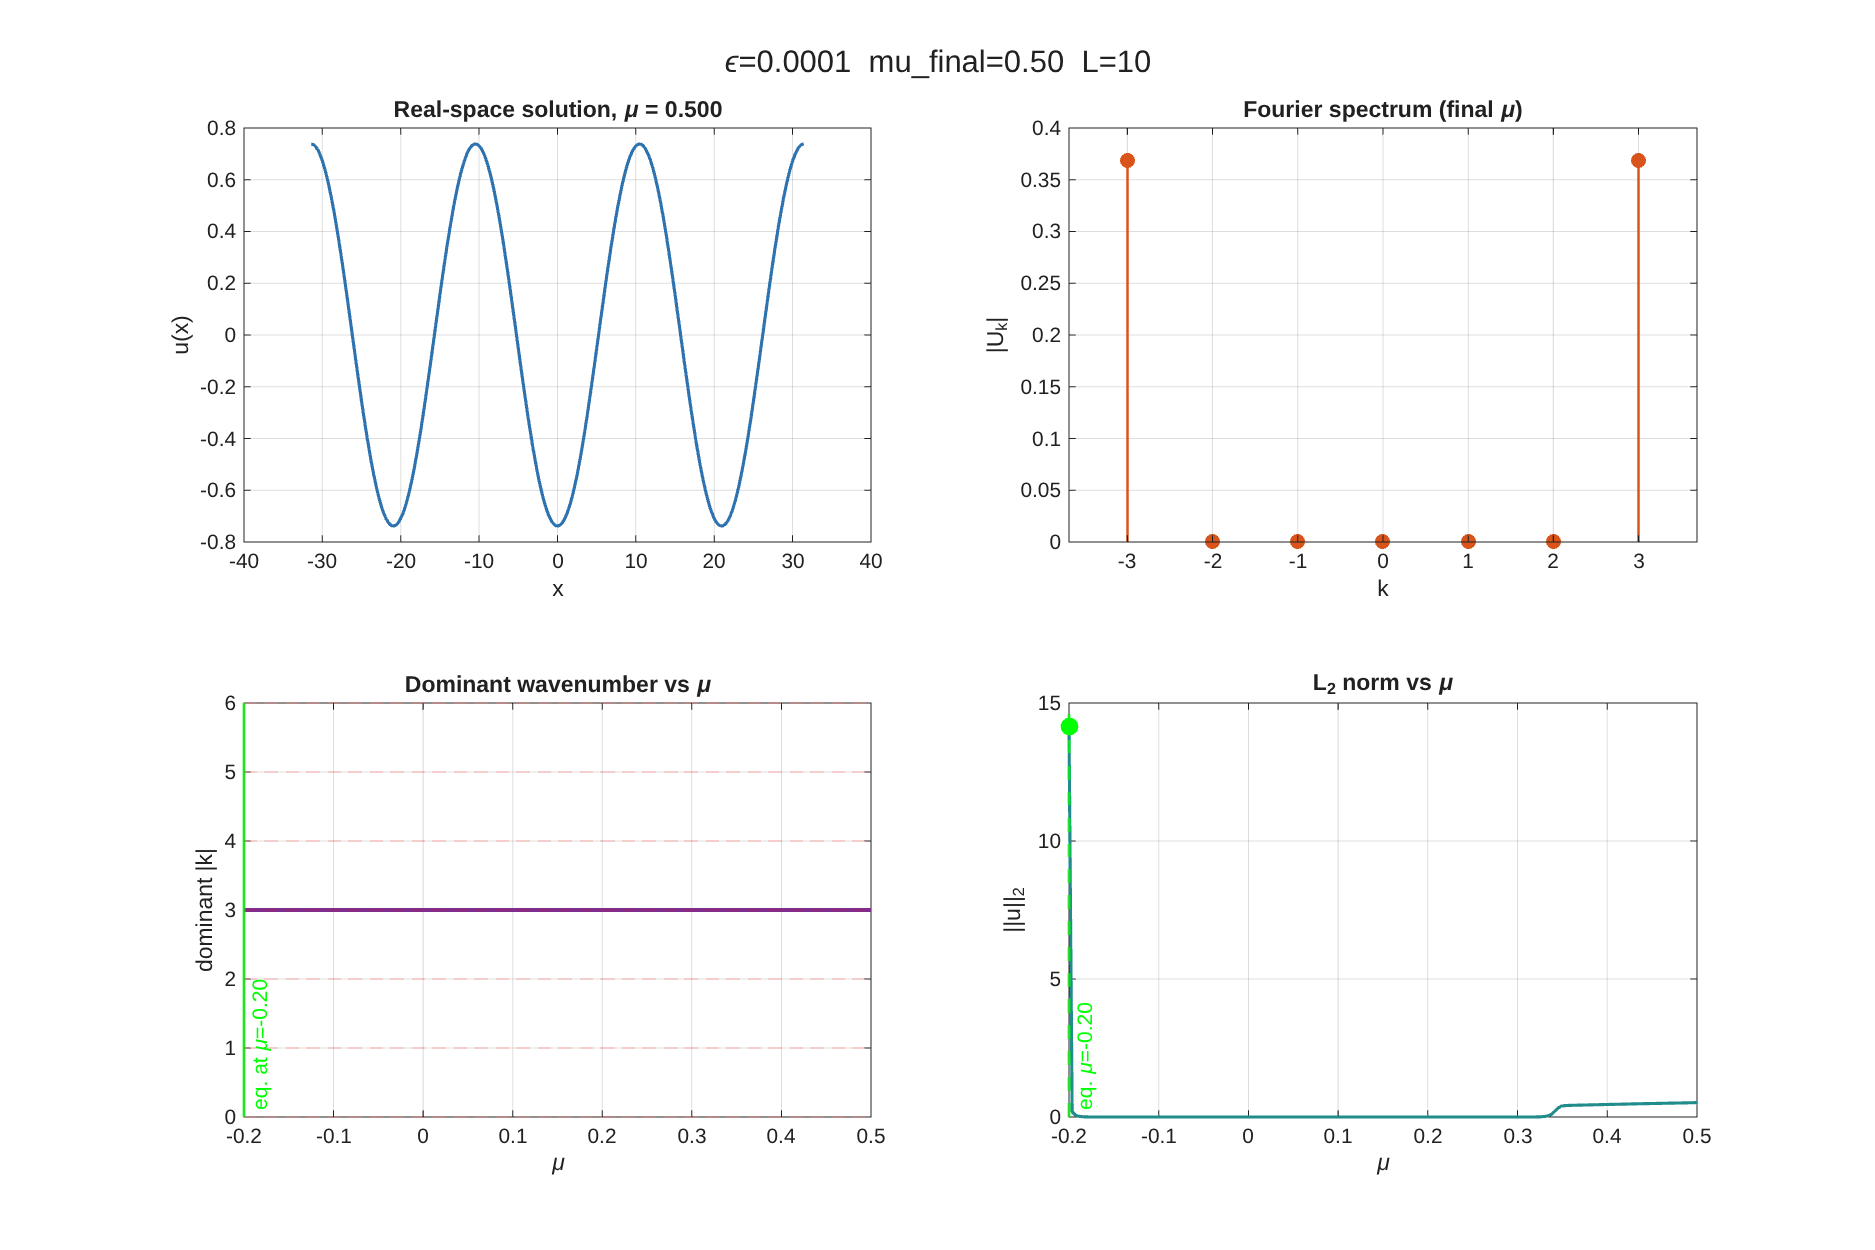
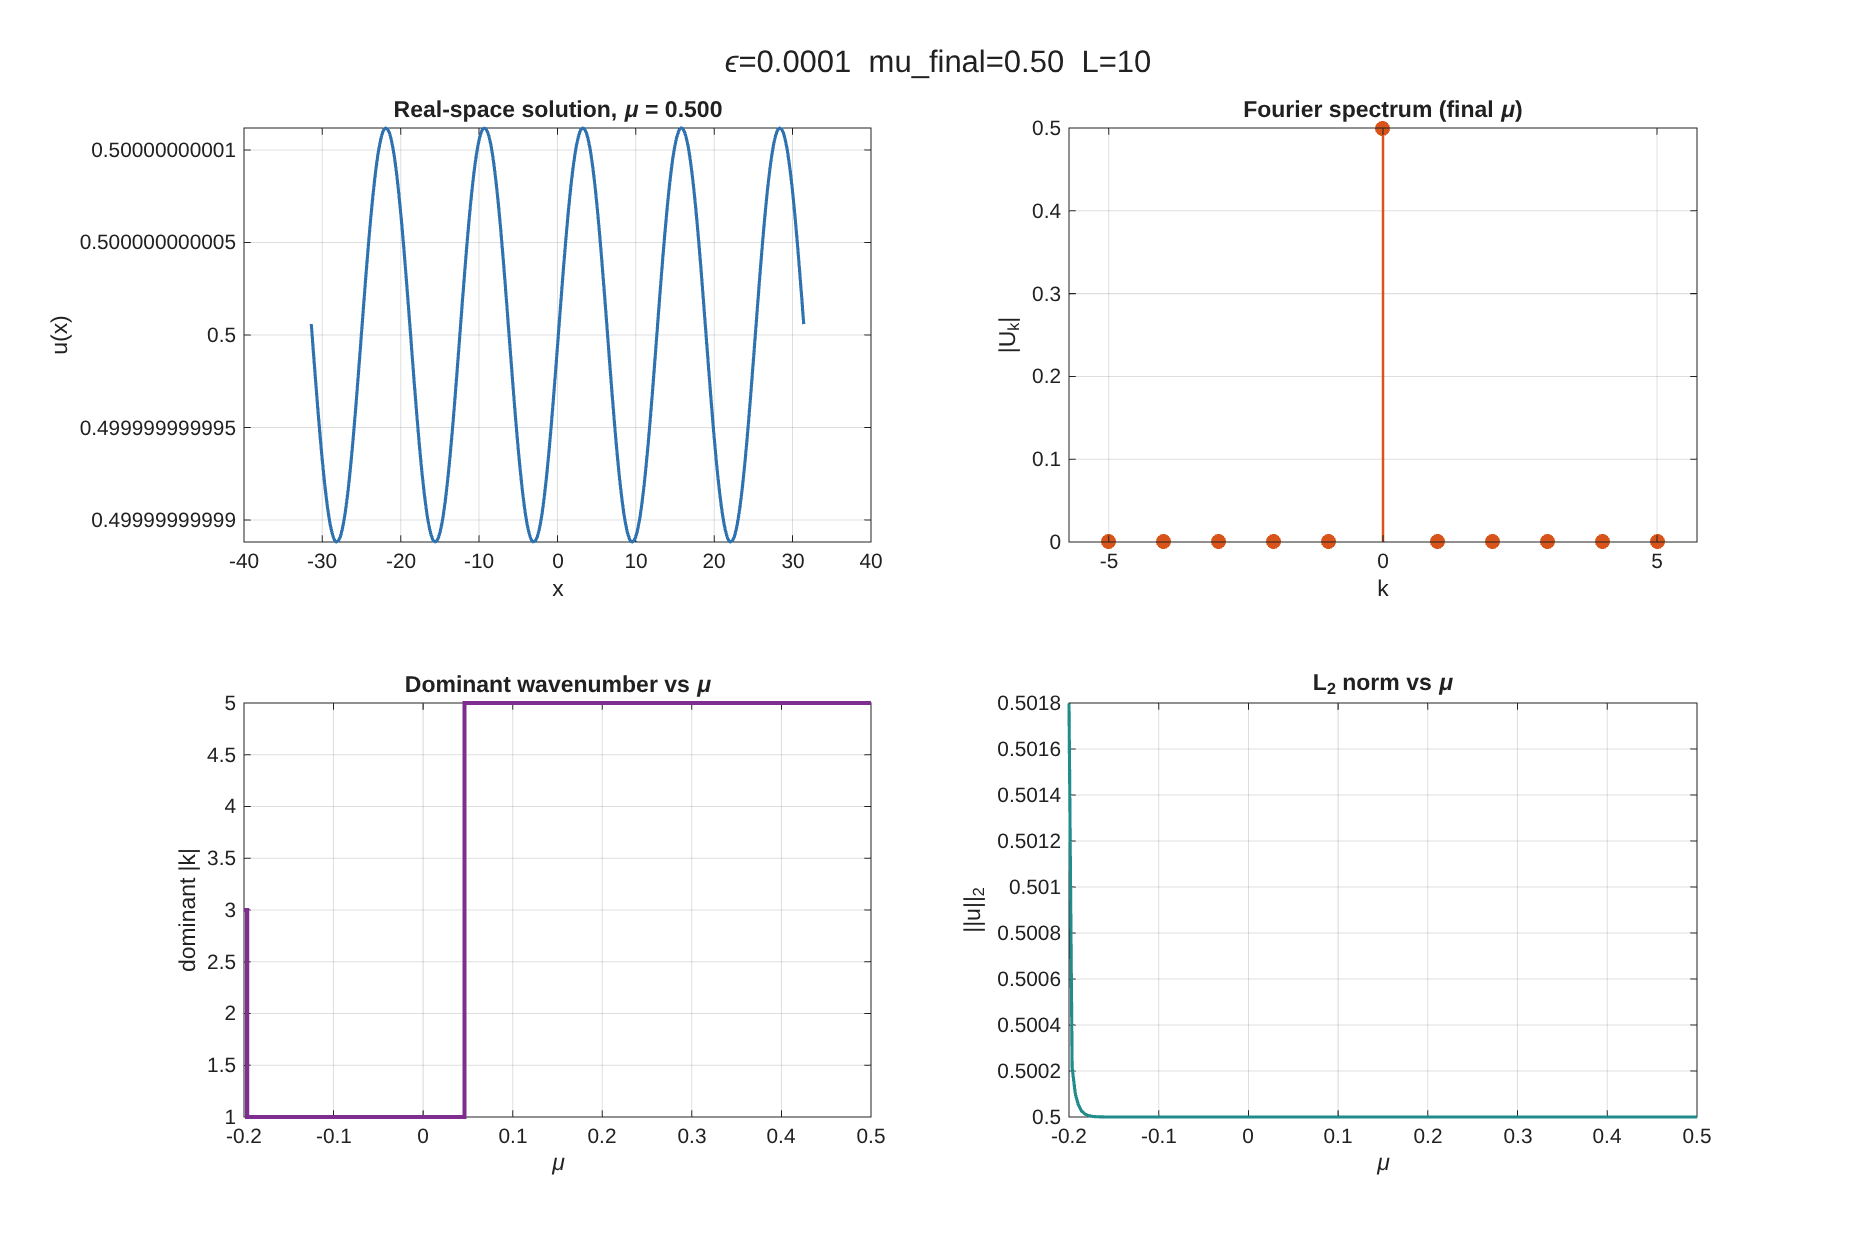
path independent startup

diff --git a/Cahn_Hilliard/CH1D/analysis/galerkin_proj.m b/Cahn_Hilliard/CH1D/analysis/galerkin_proj.m
@@ -3,7 +3,7 @@ clc; clear; close all;
 % ------------------------------------------------------------------------------------------
 % ------------------------------------------------------------------------------------------
 
-%% Description and configuration
+%% Description
 % Galerkin projection of 1D Cahn-Hilliard
 %
 % u_t = -d_xx(d_xx u + mu(t)u - u^3)
@@ -37,6 +37,7 @@ Lx = L*pi;
 Nframes        = 200;                       % number of evenly-spaced mu-frames
 tspan          = linspace(t0,T,Nframes);    % uniform in t => uniform in mu since mu=eps*t
 mu_vec_target  = epsilon*tspan;             % the mu-axis we evolve over
+mu0            = epsilon*t0;
 
 eq_window      = 10;                        % # consecutive frames the dominant mode must hold to call it "equilibrium"
 
@@ -68,7 +69,6 @@ end
 
 print_galerkin_odes(K, C, L, m);
 
-%% Initial condition
 %% Initial condition
 rng(1)
 
@@ -125,11 +125,11 @@ end
 
 mu_select = find_selection_time(kdom_hist, mu_vec, eq_window);
 
-if isnan(mu_select)
-    fprintf('Equilibrium not detected within simulation window.\n');
-else
-    fprintf('Equilibrium (mode selection) first reached at mu = %.4f\n', mu_select);
-end
+% if isnan(mu_select)
+%     fprintf('Equilibrium not detected within simulation window.\n');
+% else
+%     fprintf('Equilibrium (mode selection) first reached at mu = %.4f\n', mu_select);
+% end
 
 k_ref = 0:6;     % integer Galerkin modes |k| = 0..3 matter most, but keep a few extra for context
 
@@ -175,13 +175,13 @@ for j = 1:length(t)
     subplot(2,2,3)
     stairs(mu_vec(1:j), kdom_hist(1:j), 'LineWidth', 2, 'Color', [0.49 0.18 0.56])
     hold on
-    for kj = k_ref
-        yline(kj, '--r', 'Alpha', 0.3)
-    end
-    if ~isnan(mu_select) && mu_now >= mu_select
-        xline(mu_select, '-g', 'LineWidth', 1.5, ...
-            'Label', sprintf('eq. at \\mu=%.2f', mu_select), 'LabelVerticalAlignment','bottom')
-    end
+    % for kj = k_ref
+    %     yline(kj, '--r', 'Alpha', 0.3)
+    % end
+    % if ~isnan(mu_select) && mu_now >= mu_select
+    %     xline(mu_select, '-g', 'LineWidth', 1.5, ...
+    %         'Label', sprintf('eq. at \\mu=%.2f', mu_select), 'LabelVerticalAlignment','bottom')
+    % end
     hold off
     xlabel('\mu'); ylabel('dominant |k|')
     xlim([mu_vec(1) mu_vec(end)])
@@ -193,14 +193,14 @@ for j = 1:length(t)
     subplot(2,2,4)
     plot(mu_vec(1:j), L2_hist(1:j), 'LineWidth', 1.5, 'Color', [0.13 0.55 0.55])
     hold on
-    if ~isnan(mu_select) && mu_now >= mu_select
-        xline(mu_select, '--g', 'LineWidth', 1.5, ...
-            'Label', sprintf('eq. \\mu=%.2f', mu_select), 'LabelVerticalAlignment','bottom')
-        eq_idx = find(mu_vec(1:j) >= mu_select, 1);
-        if ~isempty(eq_idx)
-            plot(mu_vec(eq_idx), L2_hist(eq_idx), 'og', 'MarkerSize', 8, 'MarkerFaceColor','g')
-        end
-    end
+    % if ~isnan(mu_select) && mu_now >= mu_select
+    %     xline(mu_select, '--g', 'LineWidth', 1.5, ...
+    %         'Label', sprintf('eq. \\mu=%.2f', mu_select), 'LabelVerticalAlignment','bottom')
+    %     eq_idx = find(mu_vec(1:j) >= mu_select, 1);
+    %     if ~isempty(eq_idx)
+    %         plot(mu_vec(eq_idx), L2_hist(eq_idx), 'og', 'MarkerSize', 8, 'MarkerFaceColor','g')
+    %     end
+    % end
     hold off
     xlabel('\mu'); ylabel('||u||_2')
     xlim([mu_vec(1) mu_vec(end)])
@@ -208,8 +208,8 @@ for j = 1:length(t)
     title('L_2 norm vs \mu')
     grid on
     
-    sgtitle(sprintf('Galerkin Cahn-Hilliard    \\epsilon=%.4f    \\mu(t)=\\epsilon t    \\mu = %.3f / %.3f', ...
-                     epsilon, mu_now, mu_vec(end))) 
+    sgtitle(sprintf('Galerkin Cahn-Hilliard    \\epsilon=%.4f    \\mu(t)=\\epsilon t    \\mu = %.3f / %.3f    m = %.3f', ...
+                     epsilon, mu_now, mu_vec(end), m)) 
     
     drawnow;
     frame = getframe(fig);
@@ -240,13 +240,13 @@ grid on
 subplot(2,2,3)
 stairs(mu_vec, kdom_hist, 'LineWidth', 2, 'Color', [0.49 0.18 0.56])
 hold on
-for kj = k_ref
-    yline(kj, '--r', 'Alpha', 0.3)
-end
-if ~isnan(mu_select)
-    xline(mu_select, '-g', 'LineWidth', 1.5, ...
-        'Label', sprintf('eq. at \\mu=%.2f', mu_select), 'LabelVerticalAlignment','bottom')
-end
+% for kj = k_ref
+%     yline(kj, '--r', 'Alpha', 0.3)
+% end
+% if ~isnan(mu_select)
+%     xline(mu_select, '-g', 'LineWidth', 1.5, ...
+%         'Label', sprintf('eq. at \\mu=%.2f', mu_select), 'LabelVerticalAlignment','bottom')
+% end
 hold off
 xlabel('\mu'); ylabel('dominant |k|')
 title('Dominant wavenumber vs \mu')
@@ -255,12 +255,12 @@ grid on
 subplot(2,2,4)
 plot(mu_vec, L2_hist, 'LineWidth', 1.5, 'Color', [0.13 0.55 0.55])
 hold on
-if ~isnan(mu_select)
-    xline(mu_select, '--g', 'LineWidth', 1.5, ...
-        'Label', sprintf('eq. \\mu=%.2f', mu_select), 'LabelVerticalAlignment','bottom')
-    eq_idx = find(mu_vec >= mu_select, 1);
-    plot(mu_vec(eq_idx), L2_hist(eq_idx), 'og', 'MarkerSize', 8, 'MarkerFaceColor','g')
-end
+% if ~isnan(mu_select)
+%     xline(mu_select, '--g', 'LineWidth', 1.5, ...
+%         'Label', sprintf('eq. \\mu=%.2f', mu_select), 'LabelVerticalAlignment','bottom')
+%     eq_idx = find(mu_vec >= mu_select, 1);
+%     plot(mu_vec(eq_idx), L2_hist(eq_idx), 'og', 'MarkerSize', 8, 'MarkerFaceColor','g')
+% end
 hold off
 xlabel('\mu'); ylabel('||u||_2')
 title('L_2 norm vs \mu')
@@ -396,14 +396,10 @@ end
 
 
 %% formatting
-
 function s = format_monomial(coeff, idxs)
     
-    % count how many zero modes appear
-    nzero = sum(idxs==0);
-    
-    % remove them
-    idxs = idxs(idxs~=0);
+    nzero = sum(idxs==0); % count how many zero modes appear
+    idxs = idxs(idxs~=0); % remove them
     
     % base numeric coefficient string (suppress "1" if m will be present)
     if coeff == 1 && nzero > 0
@@ -482,15 +478,33 @@ function rfun = r_k(k, L, epsilon, t0)
     rfun = @(t) (const_term(t).*img_term(t) + r_k_0^(-2)*IC_term(t)).^(-1/2);
 end
 
-function [MUS, KS] = critical_bifurcation(j, L, mass,mu0)
+function [MUS, KS] = critical_bifurcation_eig(j, L, mass, mu0)
     % Computes the j'th frequencies critical mu and associated eigenvalue
     KS = 2 * pi * j./ L;
     MUS = -mu0 + 2*(3 * mass^2 + KS.^2);    
 end
 
+function [MUS, KS] = critical_bifurcation(j, L, mass)
+    % Computes the j'th frequencies critical mu and associated eigenvalue
+    KS = 2 * pi * j./ L;
+    MUS = KS.^2 + 3*mass^2;    
+end
+
 %% Print Critical Bifurcations
 fprintf('========================================================\n');
-fprintf(' Theoretical Critical Bifurcations\n');
+fprintf(' Theoretical Critical Bifurcations (integrated eig)\n');
+fprintf('========================================================\n');
+for kk = 1:Nmodes
+    k_val = K(kk);
+    if k_val >= 0 % Only print for positive wave numbers
+        [mu_crit, ks_val] = critical_bifurcation_eig(k_val, L, m, mu0);
+        fprintf('Mode |k| = %2d : Critical mu = %.4f\n', k_val, mu_crit);
+    end
+end
+fprintf('\n');
+
+fprintf('========================================================\n');
+fprintf(' Theoretical Critical Bifurcations (eigenvalue)\n');
 fprintf('========================================================\n');
 for kk = 1:Nmodes
     k_val = K(kk);

diff --git a/Cahn_Hilliard/CH1D/analysis/galerkin_proj_bifurcations.m b/Cahn_Hilliard/CH1D/analysis/galerkin_proj_bifurcations.m
@@ -1,0 +1,178 @@
+clc; clear; close all;
+
+% ------------------------------------------------------------------------------------------
+% ------------------------------------------------------------------------------------------
+
+%% Description
+% Computes the stationary (\epsilon = 0) bifurcation structure of the 
+% 1D Cahn-Hilliard equation using Galerkin projection.
+
+% Fixed L, varying \mu.
+% Solves for equilibria using Amplitude Continuation to seamlessly trace
+% subcritical (backward-bending) branches.
+
+% ------------------------------------------------------------------------------------------
+% ------------------------------------------------------------------------------------------
+
+%% Parameters
+L = 10;
+K = -5:5;
+Nmodes = length(K);
+Kmax = max(K);
+index_of = @(k) find(K==k);
+
+% Amplitude stepping parameters
+A_steps = 100;
+A_max = 1.2;
+A_vec = linspace(0.01, A_max, A_steps);
+
+%% Build cubic interaction tensor
+C = zeros(Nmodes,Nmodes,Nmodes,Nmodes);
+for kk = 1:Nmodes
+    for mm = 1:Nmodes
+        for nn = 1:Nmodes
+            for pp = 1:Nmodes
+                if K(mm)+K(nn)+K(pp) == K(kk)
+                    C(kk,mm,nn,pp) = 1;
+                end
+            end
+        end
+    end
+end
+
+%% Run Continuation for two masses
+masses = [0, 0.5];
+titles = {'Unstable Regime (m = 0)', 'Transitional Regime (m = 0.5)'};
+
+fig1 = figure('Position', [100, 100, 1200, 500], 'Name', 'Bifurcation Diagram: L2 Norm');
+fig2 = figure('Position', [100, 650, 1200, 500], 'Name', 'Bifurcation Diagram: Amplitudes');
+
+colors = lines(Kmax);
+opts = optimoptions('fsolve', 'Display', 'off', 'FunctionTolerance', 1e-10);
+
+for m_idx = 1:length(masses)
+    m = masses(m_idx);
+    
+    % Prepare plots
+    figure(fig1); subplot(1, 2, m_idx); hold on; grid on;
+    xlabel('\mu'); ylabel('||u||_2');
+    title(titles{m_idx});
+    
+    figure(fig2); subplot(1, 2, m_idx); hold on; grid on;
+    xlabel('\mu'); ylabel('Primary Mode Amplitude |U_k|');
+    title(titles{m_idx});
+    
+    % Plot trivial branch (u = m)
+    mu_plot = linspace(0, 1.5, 100);
+    L2_trivial = abs(m) * ones(size(mu_plot));
+    
+    figure(fig1); plot(mu_plot, L2_trivial, 'k-', 'LineWidth', 2, 'DisplayName', 'Trivial Branch');
+    figure(fig2); plot(mu_plot, zeros(size(mu_plot)), 'k-', 'LineWidth', 2, 'DisplayName', 'Trivial Branch');
+    
+    % Trace branches for the first 4 modes
+    for k_target = 1:4
+        
+        mu_branch = zeros(A_steps, 1);
+        L2_branch = zeros(A_steps, 1);
+        
+        % Initial guess: mu = critical mu, all other mode amplitudes = 0
+        mu_crit = 3*m^2 + (k_target/L)^2;
+        vars0 = zeros(Kmax, 1);
+        vars0(k_target) = mu_crit; 
+        
+        % Step through amplitudes
+        for a_idx = 1:A_steps
+            A = A_vec(a_idx);
+            
+            % Solve algebraic system for mu and remaining U_j
+            [vars, fval, exitflag] = fsolve(@(v) stationary_rhs(v, A, k_target, m, L, K, C), vars0, opts);
+            
+            % Extract results
+            mu_branch(a_idx) = vars(k_target);
+            
+            % Reconstruct full U vector to compute L2 norm
+            U = zeros(Nmodes, 1);
+            U(index_of(0)) = m;
+            for j = 1:Kmax
+                if j == k_target
+                    U(index_of(j)) = A; U(index_of(-j)) = A;
+                else
+                    U(index_of(j)) = vars(j); U(index_of(-j)) = vars(j);
+                end
+            end
+            
+            % L2 norm is exactly the norm of the Fourier coefficients
+            L2_branch(a_idx) = sqrt(sum(abs(U).^2));
+            
+            % Update guess for next amplitude step
+            vars0 = vars;
+        end
+        
+        % Plot the branch
+        figure(fig1);
+        plot(mu_branch, L2_branch, 'Color', colors(k_target,:), 'LineWidth', 2, ...
+             'DisplayName', sprintf('Mode k = %d', k_target));
+         
+        % Plot theoretical bifurcation point
+        plot(mu_crit, abs(m), 'o', 'MarkerFaceColor', colors(k_target,:), ...
+             'MarkerEdgeColor', 'k', 'MarkerSize', 8, 'HandleVisibility','off');
+         
+        figure(fig2);
+        plot(mu_branch, A_vec, 'Color', colors(k_target,:), 'LineWidth', 2, ...
+             'DisplayName', sprintf('Mode k = %d', k_target));
+        plot(mu_crit, 0, 'o', 'MarkerFaceColor', colors(k_target,:), ...
+             'MarkerEdgeColor', 'k', 'MarkerSize', 8, 'HandleVisibility','off');
+    end
+    
+    figure(fig1); xlim([0, 1.5]); legend('Location', 'northwest');
+    figure(fig2); xlim([0, 1.5]); legend('Location', 'northwest');
+end
+
+%% Helper Function
+function F = stationary_rhs(vars, A, k_target, m, L, K, C)
+    % Evaluates the stationary Galerkin RHS
+
+    Kmax = max(K);
+    Nmodes = length(K);
+    
+    % Reconstruct the U vector and extract mu
+    U = zeros(Nmodes, 1);
+    idx_zero = find(K==0);
+    U(idx_zero) = m;
+    
+    mu = 0;
+    for j = 1:Kmax
+        idx_pos = find(K==j);
+        idx_neg = find(K==-j);
+        if j == k_target
+            U(idx_pos) = A;
+            U(idx_neg) = A;
+            mu = vars(j);
+        else
+            U(idx_pos) = vars(j);
+            U(idx_neg) = vars(j);
+        end
+    end
+    
+    % Build the residual vector F
+    F = zeros(Kmax, 1);
+    for j = 1:Kmax
+        idx_j = find(K==j);
+        
+        % Compute the cubic interaction term for mode j
+        nonlinear = 0;
+        for mm = 1:Nmodes
+            for nn = 1:Nmodes
+                for pp = 1:Nmodes
+                    if C(idx_j, mm, nn, pp)
+                        nonlinear = nonlinear + U(mm)*U(nn)*U(pp);
+                    end
+                end
+            end
+        end
+        
+        % Stationary condition: dU_j/dt = 0
+        % (Factoring out the -j^2/L^2 prefactor simplifies the root finding)
+        F(j) = (mu - j^2/L^2) * U(idx_j) - nonlinear;
+    end
+end

diff --git a/Cahn_Hilliard/CH1D/analysis/matcont_bifurcation_plot.m b/Cahn_Hilliard/CH1D/analysis/matcont_bifurcation_plot.m
@@ -3,7 +3,7 @@ clc; clear; close all;
 % ------------------------------------------------------------------------------------------
 % ------------------------------------------------------------------------------------------
 
-%% Description and configuration
+%% Description
 % Uses Galerkin projection of 1D Cahn-Hilliard
 %
 % u_t = -d_xx(d_xx u + mu(t)u - u^3)

diff --git a/Cahn_Hilliard/CH1D/analysis/script_ramped_ch.m b/Cahn_Hilliard/CH1D/analysis/script_ramped_ch.m
@@ -3,7 +3,7 @@ clear all; close all;
 % ------------------------------------------------------------------------------------------
 % ------------------------------------------------------------------------------------------
 
-%% Description and configuration
+%% Description
 % Blueprint and solver of CH
 % mu ramped linearly
 

diff --git a/startup.m b/startup.m
@@ -1,4 +1,8 @@
-project_root = '~/Documents/MATLAB/BU_REU';
+% get root dir
+project_root = fileparts(mfilename('fullpath'));
 
+% add entire project to MATLAB path
 addpath(genpath(project_root));
-savepath; % optional, makes it permanent
+
+% optional: save path for future MATLAB sessions
+savepath; 
